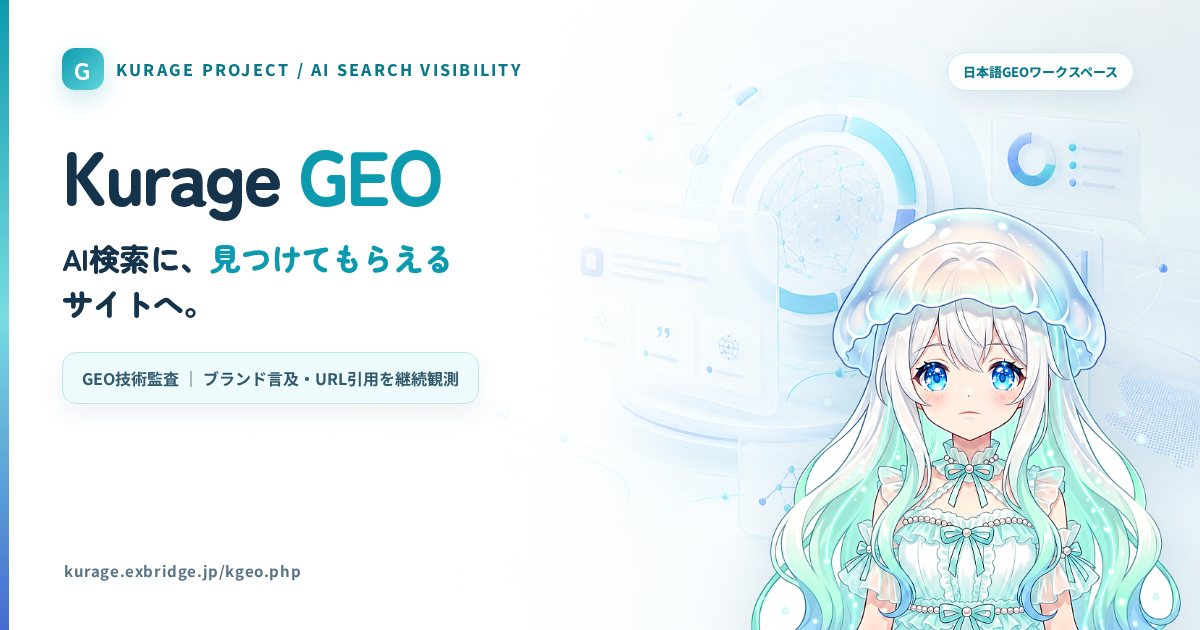
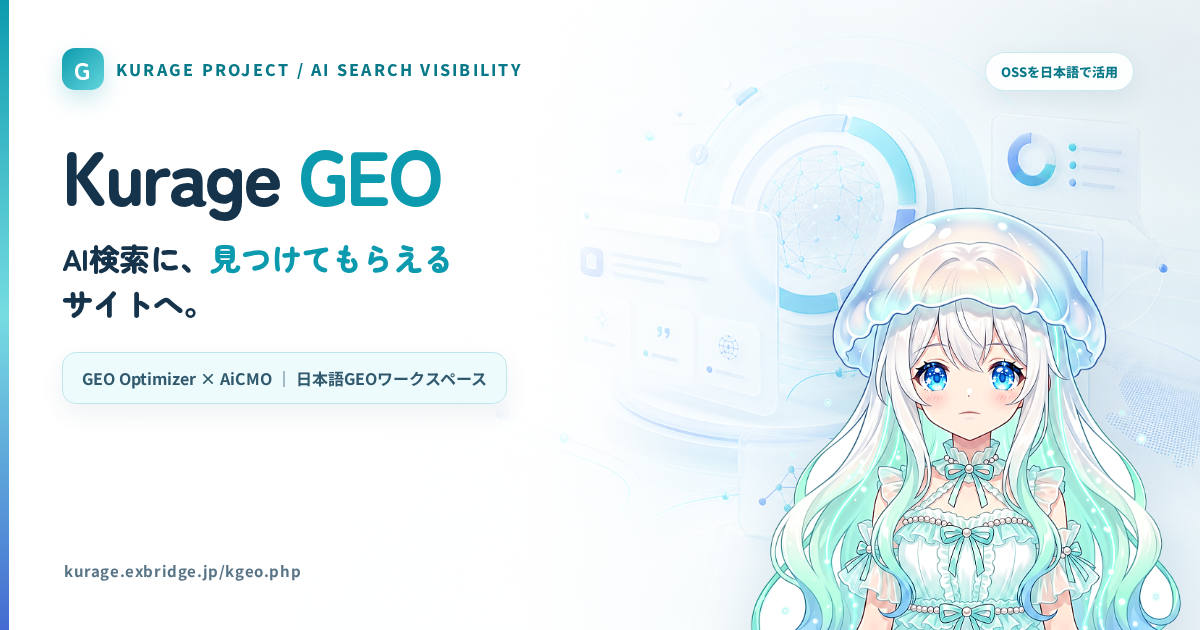
feat: target GEO Optimizer and AiCMO searches

Changed region(s): [[0.0925, 0.573, 0.4008, 0.6333], [0.8017, 0.0905, 0.925, 0.1508]]

diff --git a/static/index.html b/static/index.html
@@ -3,20 +3,22 @@
 <head>
   <meta charset="utf-8">
   <meta name="viewport" content="width=device-width,initial-scale=1">
-  <meta name="description" content="WebサイトのAI検索・GEO対応を日本語で監査。robots.txt、llms.txt、構造化データ、引用されやすさを診断し、ブランド言及とURL引用を継続観測します。">
+  <meta name="description" content="GEO Optimizerを監査中核に、AiCMOのAI検索可視性設計を参考に日本語向けへ再構成したGEOワークスペース。">
+  <meta name="keywords" content="GEO Optimizer 日本語,AiCMO 日本語,GEO 日本語,AI検索対策,LLMO,Kurage GEO">
   <meta name="robots" content="noindex, nofollow">
   <meta name="theme-color" content="#0c9bae">
   <link rel="canonical" href="https://kurage.exbridge.jp/kgeo.php">
+  <link rel="alternate" type="text/markdown" href="https://kurage.exbridge.jp/llms.txt" title="Kurage Project for LLMs">
   <meta property="og:type" content="website">
   <meta property="og:site_name" content="Kurageプロジェクト">
-  <meta property="og:title" content="Kurage GEO — AI検索に、見つけてもらえるサイトへ。">
-  <meta property="og:description" content="AI検索・GEO対応を日本語で技術監査。ブランド言及とURL引用の変化も継続観測できます。">
+  <meta property="og:title" content="Kurage GEO — GEO Optimizer／AiCMOを日本語で活用">
+  <meta property="og:description" content="GEO Optimizerの監査機能とAiCMOの可視性設計を、日本語で使えるGEOワークスペースへ。">
   <meta property="og:url" content="https://kurage.exbridge.jp/kgeo.php">
   <meta property="og:image" content="https://kurage.exbridge.jp/images/kgeo-ogp.png">
   <meta property="og:image:width" content="1200"><meta property="og:image:height" content="630">
   <meta name="twitter:card" content="summary_large_image">
   <meta name="twitter:image" content="https://kurage.exbridge.jp/images/kgeo-ogp.png">
-  <title>Kurage GEO | AI検索・GEO対応を日本語で診断</title>
+  <title>Kurage GEO | GEO Optimizer・AiCMOを日本語で使えるGEO診断</title>
   <link rel="preconnect" href="https://fonts.googleapis.com">
   <link rel="preconnect" href="https://fonts.gstatic.com" crossorigin>
   <link href="https://fonts.googleapis.com/css2?family=Zen+Maru+Gothic:wght@700;900&family=Noto+Sans+JP:wght@400;600;700;800&display=swap" rel="stylesheet">

diff --git a/assets/ogp/kgeo-ogp.html b/assets/ogp/kgeo-ogp.html
@@ -33,10 +33,10 @@ h1 span{color:#0c9bae}
   <div class="copy">
     <h1>Kurage <span>GEO</span></h1>
     <p class="tagline">AI検索に、<strong>見つけてもらえる</strong><br>サイトへ。</p>
-    <div class="summary">GEO技術監査 ｜ ブランド言及・URL引用を継続観測</div>
+    <div class="summary">GEO Optimizer × AiCMO ｜ 日本語GEOワークスペース</div>
   </div>
   <div class="url">kurage.exbridge.jp/kgeo.php</div>
-  <div class="badge">日本語GEOワークスペース</div>
+  <div class="badge">OSSを日本語で活用</div>
   <img class="avatar" src="kurage-avatar-smile.png" alt="Kurage">
 </div>
 </body>

diff --git a/public/kgeo.php b/public/kgeo.php
@@ -112,35 +112,37 @@ if (isset($_GET['api'])) {
 
 if (!$logged_in):
 ?><!doctype html><html lang="ja"><head><meta charset="utf-8"><meta name="viewport" content="width=device-width,initial-scale=1">
-<title>Kurage GEO | AI検索・GEO対応を日本語で診断</title>
-<meta name="description" content="WebサイトのAI検索・GEO対応を日本語で監査。robots.txt、llms.txt、構造化データ、引用されやすさを診断し、ブランド言及とURL引用を継続観測します。">
+<title>Kurage GEO | GEO Optimizer・AiCMOを日本語で使えるGEO診断</title>
+<meta name="description" content="OSSのGEO Optimizerを監査中核に、AiCMOのAI検索可視性設計を参考に日本語向けへ再構成。GEO技術監査、改善提案、ブランド言及・URL引用の観測ができます。">
+<meta name="keywords" content="GEO Optimizer 日本語,AiCMO 日本語,GEO 日本語,AI検索対策,生成AI SEO,LLMO,Kurage GEO">
 <meta name="robots" content="index, follow, max-image-preview:large">
 <meta name="author" content="Kurageプロジェクト">
 <meta name="theme-color" content="#0c9bae">
 <link rel="canonical" href="https://kurage.exbridge.jp/kgeo.php">
+<link rel="alternate" type="text/markdown" href="https://kurage.exbridge.jp/llms.txt" title="Kurage Project for LLMs">
 <meta property="og:type" content="website">
 <meta property="og:site_name" content="Kurageプロジェクト">
-<meta property="og:title" content="Kurage GEO — AI検索に、見つけてもらえるサイトへ。">
-<meta property="og:description" content="AI検索・GEO対応を日本語で技術監査。ブランド言及とURL引用の変化も継続観測できます。">
+<meta property="og:title" content="Kurage GEO — GEO Optimizer／AiCMOを日本語で活用">
+<meta property="og:description" content="GEO Optimizerの監査機能とAiCMOの可視性設計を、日本語で使えるGEOワークスペースへ。">
 <meta property="og:url" content="https://kurage.exbridge.jp/kgeo.php">
 <meta property="og:image" content="https://kurage.exbridge.jp/images/kgeo-ogp.png">
 <meta property="og:image:secure_url" content="https://kurage.exbridge.jp/images/kgeo-ogp.png">
 <meta property="og:image:type" content="image/png">
 <meta property="og:image:width" content="1200"><meta property="og:image:height" content="630">
-<meta property="og:image:alt" content="Kurage GEO — AI検索に、見つけてもらえるサイトへ。">
+<meta property="og:image:alt" content="Kurage GEO — GEO OptimizerとAiCMOを日本語で活用するGEOワークスペース">
 <meta property="og:locale" content="ja_JP">
 <meta name="twitter:card" content="summary_large_image">
-<meta name="twitter:title" content="Kurage GEO — AI検索に、見つけてもらえるサイトへ。">
-<meta name="twitter:description" content="AI検索・GEO対応を日本語で技術監査。ブランド言及とURL引用を継続観測。">
+<meta name="twitter:title" content="Kurage GEO — GEO Optimizer／AiCMOを日本語で活用">
+<meta name="twitter:description" content="OSSを日本語で使えるGEO監査・AI検索可視性ワークスペースへ再構成。">
 <meta name="twitter:image" content="https://kurage.exbridge.jp/images/kgeo-ogp.png">
 <script type="application/ld+json">
 {
   "@context":"https://schema.org",
   "@type":"WebApplication",
   "name":"Kurage GEO",
-  "alternateName":"日本語GEO・AI検索可視性ワークスペース",
+  "alternateName":["日本語GEO・AI検索可視性ワークスペース","GEO Optimizer・AiCMO日本語GEOツール"],
   "url":"https://kurage.exbridge.jp/kgeo.php",
-  "description":"WebサイトのAI検索対応を日本語で監査し、AI回答におけるブランド言及とURL引用を記録するGEOワークスペース。",
+  "description":"OSSのGEO Optimizerを監査中核に使い、AiCMOのAI検索可視性設計を参考に、日本語の監査・改善提案・ブランド言及・URL引用観測へ再構成したGEOワークスペース。",
   "applicationCategory":"BusinessApplication",
   "operatingSystem":"Web",
   "inLanguage":"ja",
@@ -148,14 +150,30 @@ if (!$logged_in):
   "image":"https://kurage.exbridge.jp/images/kgeo-ogp.png",
   "codeRepository":"https://github.com/katsushi2441/kgeo",
   "license":"https://opensource.org/license/mit",
-  "featureList":["GEO技術監査","AIクローラー許可診断","llms.txt診断","構造化データ診断","日本語改善提案","ブランド言及・URL引用の記録"],
+  "keywords":"GEO Optimizer 日本語, AiCMO 日本語, GEO, AI検索対策, LLMO, 生成AI SEO",
+  "isBasedOn":[
+    {"@type":"SoftwareSourceCode","name":"GEO Optimizer Skill","codeRepository":"https://github.com/Auriti-Labs/geo-optimizer-skill","license":"https://opensource.org/license/mit"},
+    {"@type":"SoftwareSourceCode","name":"AiCMO","codeRepository":"https://github.com/AICMO/ai-cmo","license":"https://opensource.org/license/mit"}
+  ],
+  "featureList":["GEO OptimizerによるGEO技術監査","AIクローラー許可診断","llms.txt診断","構造化データ診断","改善提案の日本語表示","AiCMOを参考にしたブランド言及・URL引用の記録"],
   "publisher":{"@type":"Organization","name":"Kurageプロジェクト","url":"https://kurage.exbridge.jp/"}
+}
+</script>
+<script type="application/ld+json">
+{
+  "@context":"https://schema.org",
+  "@type":"FAQPage",
+  "mainEntity":[
+    {"@type":"Question","name":"GEO Optimizerを日本語で使えますか？","acceptedAnswer":{"@type":"Answer","text":"Kurage GEOはGEO Optimizerの決定論的な監査機能を中核に使い、監査結果と改善案を日本語画面で確認できるよう再構成しています。公式日本語版ではありません。"}},
+    {"@type":"Question","name":"AiCMOとの関係は何ですか？","acceptedAnswer":{"@type":"Answer","text":"AiCMOの企業・競合・監視質問・実行履歴・AI可視性という設計を参考に、Kurage GEO独自の軽量な日本語データモデルとして実装しています。AiCMO全体を翻訳した公式版ではありません。"}},
+    {"@type":"Question","name":"SEOとGEOの違いは何ですか？","acceptedAnswer":{"@type":"Answer","text":"SEOは主に検索結果での発見性を改善し、GEOは生成AIやAI検索が内容を理解・引用しやすい技術構成と情報表現を整えます。Kurage GEOはrobots.txt、llms.txt、構造化データ、本文構造などを監査します。"}}
+  ]
 }
 </script>
 <script async src="https://www.googletagmanager.com/gtag/js?id=G-BP0650KDFR"></script>
 <script>window.dataLayer=window.dataLayer||[];function gtag(){dataLayer.push(arguments)}gtag('js',new Date());gtag('config','G-BP0650KDFR');</script>
 <script>(function(){var s=document.createElement('script');s.src='https://aiknowledgecms.exbridge.jp/simpletrack.php?url='+encodeURIComponent(location.href)+'&ref='+encodeURIComponent(document.referrer);document.head.appendChild(s)})();</script>
-<style>body{margin:0;background:#f5fcfd;color:#15334a;font-family:-apple-system,BlinkMacSystemFont,"Noto Sans JP",sans-serif}.wrap{max-width:900px;margin:7vh auto;padding:28px}.card,.feature{background:#fff;border:1px solid #dce8ee;border-radius:28px;box-shadow:0 18px 55px rgba(24,75,99,.1)}.card{padding:48px;text-align:center}.mark{width:70px;height:70px;margin:auto;display:grid;place-items:center;border-radius:22px;background:#0c9bae;color:#fff;font-size:36px;font-weight:900}h1{font-size:38px;margin:20px 0 10px}p{color:#667b8b;line-height:1.8}.button{display:inline-flex;min-height:50px;align-items:center;margin-top:18px;padding:0 28px;border-radius:14px;background:#0c9bae;color:#fff;text-decoration:none;font-weight:800}.about{text-align:center;margin:48px auto 22px;max-width:720px}.about h2{font-size:26px;margin:0 0 8px}.features{display:grid;grid-template-columns:repeat(3,1fr);gap:14px}.feature{padding:22px;border-radius:18px;box-shadow:0 10px 28px rgba(24,75,99,.06)}.feature h3{font-size:16px;margin:0 0 7px;color:#087988}.feature p{font-size:13px;margin:0}.foot{text-align:center;font-size:12px;margin:26px 0 0}@media(max-width:700px){.wrap{margin:3vh auto;padding:18px}.card{padding:36px 22px}.features{grid-template-columns:1fr}}</style></head><body><main class="wrap"><section class="card"><div class="mark">G</div><h1>Kurage GEO</h1><p>サイトのAI検索対応を監査し、ブランド言及とURL引用を継続観測します。<br>利用には共通Xアカウントでのログインが必要です。</p><a class="button" href="?login=1">Xでログイン</a></section><section class="about"><h2>日本語でわかるGEO技術監査</h2><p>AI検索に読み取られやすい技術構成かを確認し、点数だけでなく、次に直す項目を具体的な日本語で示します。</p></section><section class="features" aria-label="Kurage GEOの機能"><article class="feature"><h3>AIクローラーとllms.txt</h3><p>robots.txtの許可状況、llms.txt、AI向け発見エンドポイントを確認します。</p></article><article class="feature"><h3>構造化データと引用適性</h3><p>JSON-LD、メタ情報、本文構造、更新シグナル、ブランド表記の整合性を監査します。</p></article><article class="feature"><h3>履歴とAI検索可視性</h3><p>監査結果を保存し、対応前後の変化やAI回答でのブランド言及・URL引用を記録します。</p></article></section><p class="foot">Kurage GEOは順位やAI回答への掲載を保証するものではありません。観測事実と改善判断を支援するツールです。</p></main></body></html><?php
+<style>body{margin:0;background:#f5fcfd;color:#15334a;font-family:-apple-system,BlinkMacSystemFont,"Noto Sans JP",sans-serif}.wrap{max-width:900px;margin:7vh auto;padding:28px}.card,.feature,.oss,.faq details{background:#fff;border:1px solid #dce8ee;border-radius:28px;box-shadow:0 18px 55px rgba(24,75,99,.1)}.card{padding:48px;text-align:center}.mark{width:70px;height:70px;margin:auto;display:grid;place-items:center;border-radius:22px;background:#0c9bae;color:#fff;font-size:36px;font-weight:900}h1{font-size:38px;margin:20px 0 10px}p{color:#667b8b;line-height:1.8}.button{display:inline-flex;min-height:50px;align-items:center;margin-top:18px;padding:0 28px;border-radius:14px;background:#0c9bae;color:#fff;text-decoration:none;font-weight:800}.about{text-align:center;margin:48px auto 22px;max-width:760px}.about h2,.oss h2,.faq h2{font-size:26px;margin:0 0 8px}.features{display:grid;grid-template-columns:repeat(3,1fr);gap:14px}.feature{padding:22px;border-radius:18px;box-shadow:0 10px 28px rgba(24,75,99,.06)}.feature h3{font-size:16px;margin:0 0 7px;color:#087988}.feature p{font-size:13px;margin:0}.oss{padding:28px;margin-top:28px;border-radius:20px}.oss a{color:#087988;font-weight:700}.oss .note{font-size:12px}.faq{margin-top:40px}.faq h2{text-align:center}.faq details{padding:17px 20px;margin-top:11px;border-radius:16px;box-shadow:0 8px 22px rgba(24,75,99,.05)}.faq summary{cursor:pointer;font-weight:800;color:#087988}.faq details p{font-size:13px;margin:8px 0 0}.foot{text-align:center;font-size:12px;margin:26px 0 0}@media(max-width:700px){.wrap{margin:3vh auto;padding:18px}.card{padding:36px 22px}.features{grid-template-columns:1fr}}</style></head><body><main class="wrap"><section class="card"><div class="mark">G</div><h1>Kurage GEO</h1><p>GEO OptimizerとAiCMOの知見を、日本語で使えるGEO監査・AI検索可視性ワークスペースへ。<br>利用には共通Xアカウントでのログインが必要です。</p><a class="button" href="?login=1">Xでログイン</a></section><section class="about"><h2>GEO Optimizer／AiCMOを日本語で活用</h2><p>OSSの<strong>GEO Optimizer</strong>を技術監査の中核に使い、<strong>AiCMO</strong>のAI可視性・競合・監視質問・履歴という設計を参考に、日本語で理解しやすい一つのWebプロダクトへ再構成しました。</p></section><section class="features" aria-label="Kurage GEOの機能"><article class="feature"><h3>AIクローラーとllms.txt</h3><p>robots.txtの許可状況、llms.txt、AI向け発見エンドポイントを確認します。</p></article><article class="feature"><h3>構造化データと引用適性</h3><p>JSON-LD、メタ情報、本文構造、更新シグナル、ブランド表記の整合性を監査します。</p></article><article class="feature"><h3>履歴とAI検索可視性</h3><p>監査結果を保存し、対応前後の変化やAI回答でのブランド言及・URL引用を記録します。</p></article></section><section class="oss"><h2>2つのOSSとの関係</h2><p><a href="https://github.com/Auriti-Labs/geo-optimizer-skill" rel="noopener">GEO Optimizer Skill</a>の安全なURL取得と決定論的監査を実際の監査エンジンとして利用しています。<a href="https://github.com/AICMO/ai-cmo" rel="noopener">AiCMO</a>は、企業・競合・監視質問・実行履歴というプロダクト設計の参照元です。</p><p class="note">Kurage GEOは両OSSの公式日本語版ではなく、MIT Licenseに基づく独立した日本語プロダクトです。AiCMO全体をそのまま翻訳したものではありません。</p></section><section class="faq"><h2>GEO Optimizer・AiCMO 日本語対応FAQ</h2><details open><summary>GEO Optimizerを日本語で使えますか？</summary><p>Kurage GEOでは監査結果と改善案を日本語画面で確認できます。GEO Optimizerの公式日本語版ではありません。</p></details><details><summary>AiCMOとの関係は何ですか？</summary><p>AiCMOのAI可視性モニタリング設計を参考に、Kurage GEO独自の軽量な日本語データモデルとして実装しています。</p></details><details><summary>SEOとGEOの違いは何ですか？</summary><p>SEOは主に検索結果での発見性を改善し、GEOは生成AIやAI検索が内容を理解・引用しやすい技術構成と情報表現を整えます。</p></details></section><p class="foot">Kurage GEOは検索順位やAI回答への掲載を保証するものではありません。観測事実と改善判断を支援するツールです。</p></main></body></html><?php
 exit;
 endif;
 

diff --git a/tests/public_smoke.py b/tests/public_smoke.py
@@ -13,6 +13,8 @@ with sync_playwright() as playwright:
     response = page.goto(PUBLIC_URL, wait_until="networkidle")
     assert response is not None and response.status == 200
     assert page.get_by_role("heading", name="Kurage GEO").is_visible()
+    assert "GEO Optimizer・AiCMOを日本語" in page.title()
+    assert page.get_by_role("heading", name="GEO Optimizer／AiCMOを日本語で活用").is_visible()
     assert page.locator('link[rel="canonical"]').get_attribute("href") == PUBLIC_URL
     assert page.locator('meta[property="og:image"]').get_attribute("content") == (
         "https://kurage.exbridge.jp/images/kgeo-ogp.png"
@@ -35,6 +37,11 @@ with sync_playwright() as playwright:
     sitemap_response = page.request.get("https://kurage.exbridge.jp/sitemap.php")
     assert sitemap_response.status == 200
     assert "https://kurage.exbridge.jp/kgeo.php" in sitemap_response.text()
+    llms_response = page.request.get("https://kurage.exbridge.jp/llms.txt")
+    assert llms_response.status == 200
+    assert "GEO Optimizer Skill" in llms_response.text()
+    assert "AiCMO" in llms_response.text()
+    assert "Kurage GEO" in llms_response.text()
 
     page.screenshot(path=str(OUTPUT), full_page=True)
     assert not console_errors, console_errors
